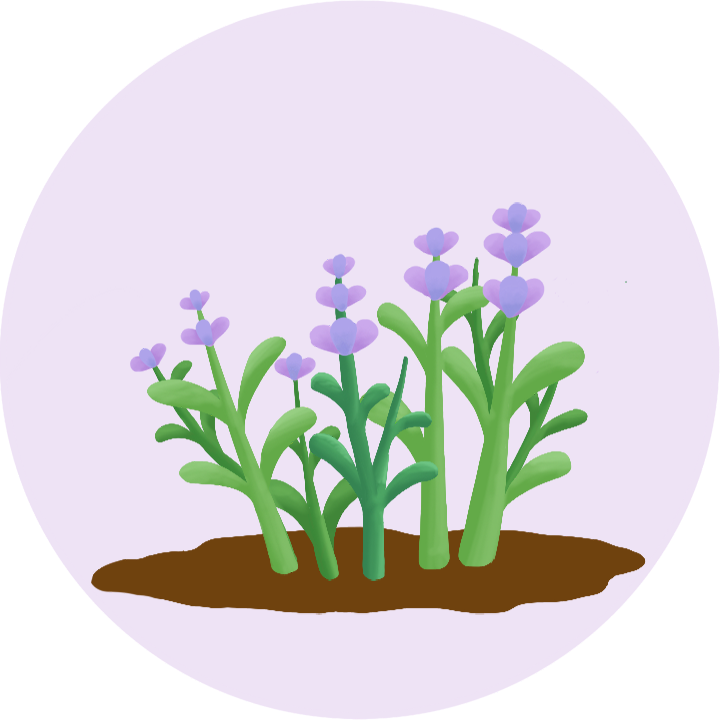
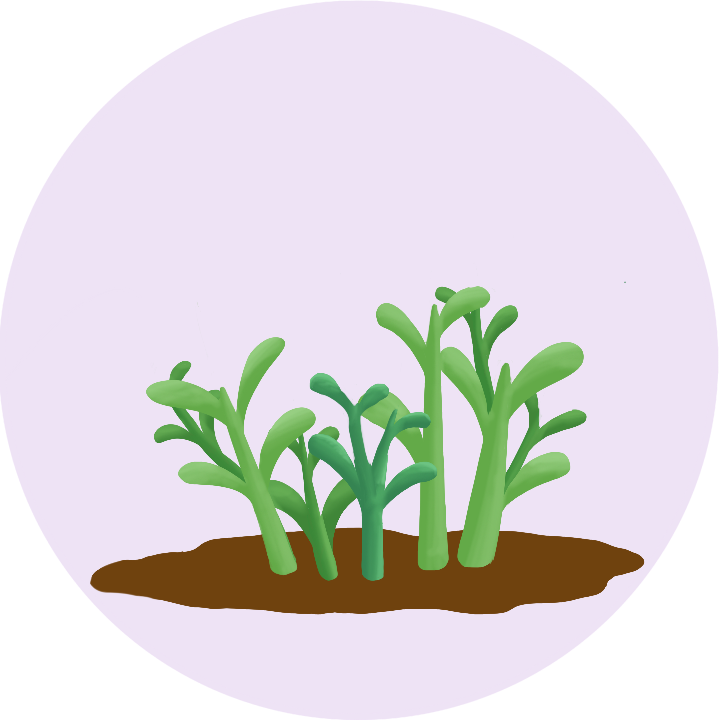
concentration update

diff --git a/Frontend/src/components/concentration.vue b/Frontend/src/components/concentration.vue
@@ -10,7 +10,7 @@
 
             <p class="TimeDisplay">{{demoPrompt}}</p>
 
-            <el-slider v-if="curState == 'empty'" v-model="timeSpanSet"  show-stops :max="120" :show-tooltip="false" :step="30" class="Slider" />
+            <el-slider v-if="curState == 'empty'" v-model="timeSpanSet"  show-stops :max="maxTime" :show-tooltip="false" :step="maxTime / 4" class="Slider" />
 
             <el-button type="primary" class = "Button" @click="buttonClick">{{buttonPrompt[curState]}}</el-button>
         
@@ -23,6 +23,8 @@
 
 import lavender_dead from "../assets/image/lavender-dead.png"
 import lavender_1 from "../assets/image/lavender-1.png"
+import lavender_2 from "../assets/image/lavender-2.png"
+import lavender_3 from "../assets/image/lavender-3.png"
 import lavender_done from "../assets/image/lavender-done.png"
 import screenfull from "screenfull"
 import { ElMessageBox } from "element-plus"
@@ -34,6 +36,8 @@ export default {
             picture: {
                 'dead' : lavender_dead,
                 '1' : lavender_1,
+                '2' : lavender_2,
+                '3' : lavender_3,
                 'done' : lavender_done,
             },
             buttonPrompt:{
@@ -56,27 +60,34 @@ export default {
             timeLeftMin: 0,
             //剩余时间秒数
             timeLeftSec: 0,
+            //是否是全屏
+            isFullScreen: false,
+            //专注的最长时间
+            maxTime:0.1
         }
     },
     methods: {
         buttonClick(){
+            //开始专注
             if(this.curState == 'empty'){
                 if(this.timeSpanSet == 0){
                     ElMessageBox.alert('请设置有效的专注时间!');
                     return;
                 }
                 screenfull.request();
+                this.isFullScreen = true;
                 //记录起始时间
                 this.startTime = new Date();
                 //设置目标时间
                 this.goalTime = new Date(this.startTime.valueOf() + this.timeSpanSet * 60 * 1000);
                 //设置初始值 避免时间跳动
-                this.timeLeftMin = this.timeSpanSet;
-                this.timeLeftSec = 0;
+                this.timeLeftMin = Math.floor(this.timeSpanSet);
+                this.timeLeftSec = Math.round((this.timeSpanSet-Math.floor(this.timeSpanSet))*60);
                 this.curState = 'growing';
             }
             else if(this.curState == 'growing'){
                 this.curState = 'dead';
+                this.isFullScreen = false;
                 screenfull.exit();
             }
             else if(this.curState == 'dead'){
@@ -105,18 +116,30 @@ export default {
         //选择展示图片
         displayPic(){
             if(this.curState == 'empty'){
-                return lavender_1;
+                if(this.timeSpanSet == 0)
+                    return lavender_1;
+                else if(this.timeSpanSet <= this.maxTime * 0.5)
+                    return lavender_2;
+                else
+                    return lavender_3;
             }
             else if(this.curState == 'dead')
                 return lavender_dead;
             else if(this.curState == 'done')
                 return lavender_done;
-            else
-                return lavender_1;
+            else if(this.curState == 'growing'){
+                var pass = this.timeSpanSet - (this.timeLeftMin*60 + this.timeLeftSec) / 60;
+                if(pass <= this.maxTime * 0.25)
+                    return lavender_1;
+                else if(pass <= this.maxTime * 0.75)
+                    return lavender_2;
+                else
+                    return lavender_3;
+            }
         },
         demoPrompt(){
             if(this.curState == 'empty')
-                return this.addZero(this.timeSpanSet) + String(':00');
+                return this.addZero(Math.floor(this.timeSpanSet)) + ':' + this.addZero(Math.round((this.timeSpanSet-Math.floor(this.timeSpanSet))*60));
             else if(this.curState == 'growing')
                 return this.addZero(this.timeLeftMin) + ':' + this.addZero(this.timeLeftSec);
             else if(this.curState == 'dead')
@@ -139,8 +162,9 @@ export default {
         }, 1000)
 
         screenfull.on('change', ()=>{
-            if(!screenfull.isFullscreen){
+            if(!screenfull.isFullscreen && this.isFullScreen){
                 this.curState = 'dead';
+                this.isFullScreen = false;
                 this.$message.error('由于您退出了全屏专注，薰衣草已经死亡');
             }
         })
